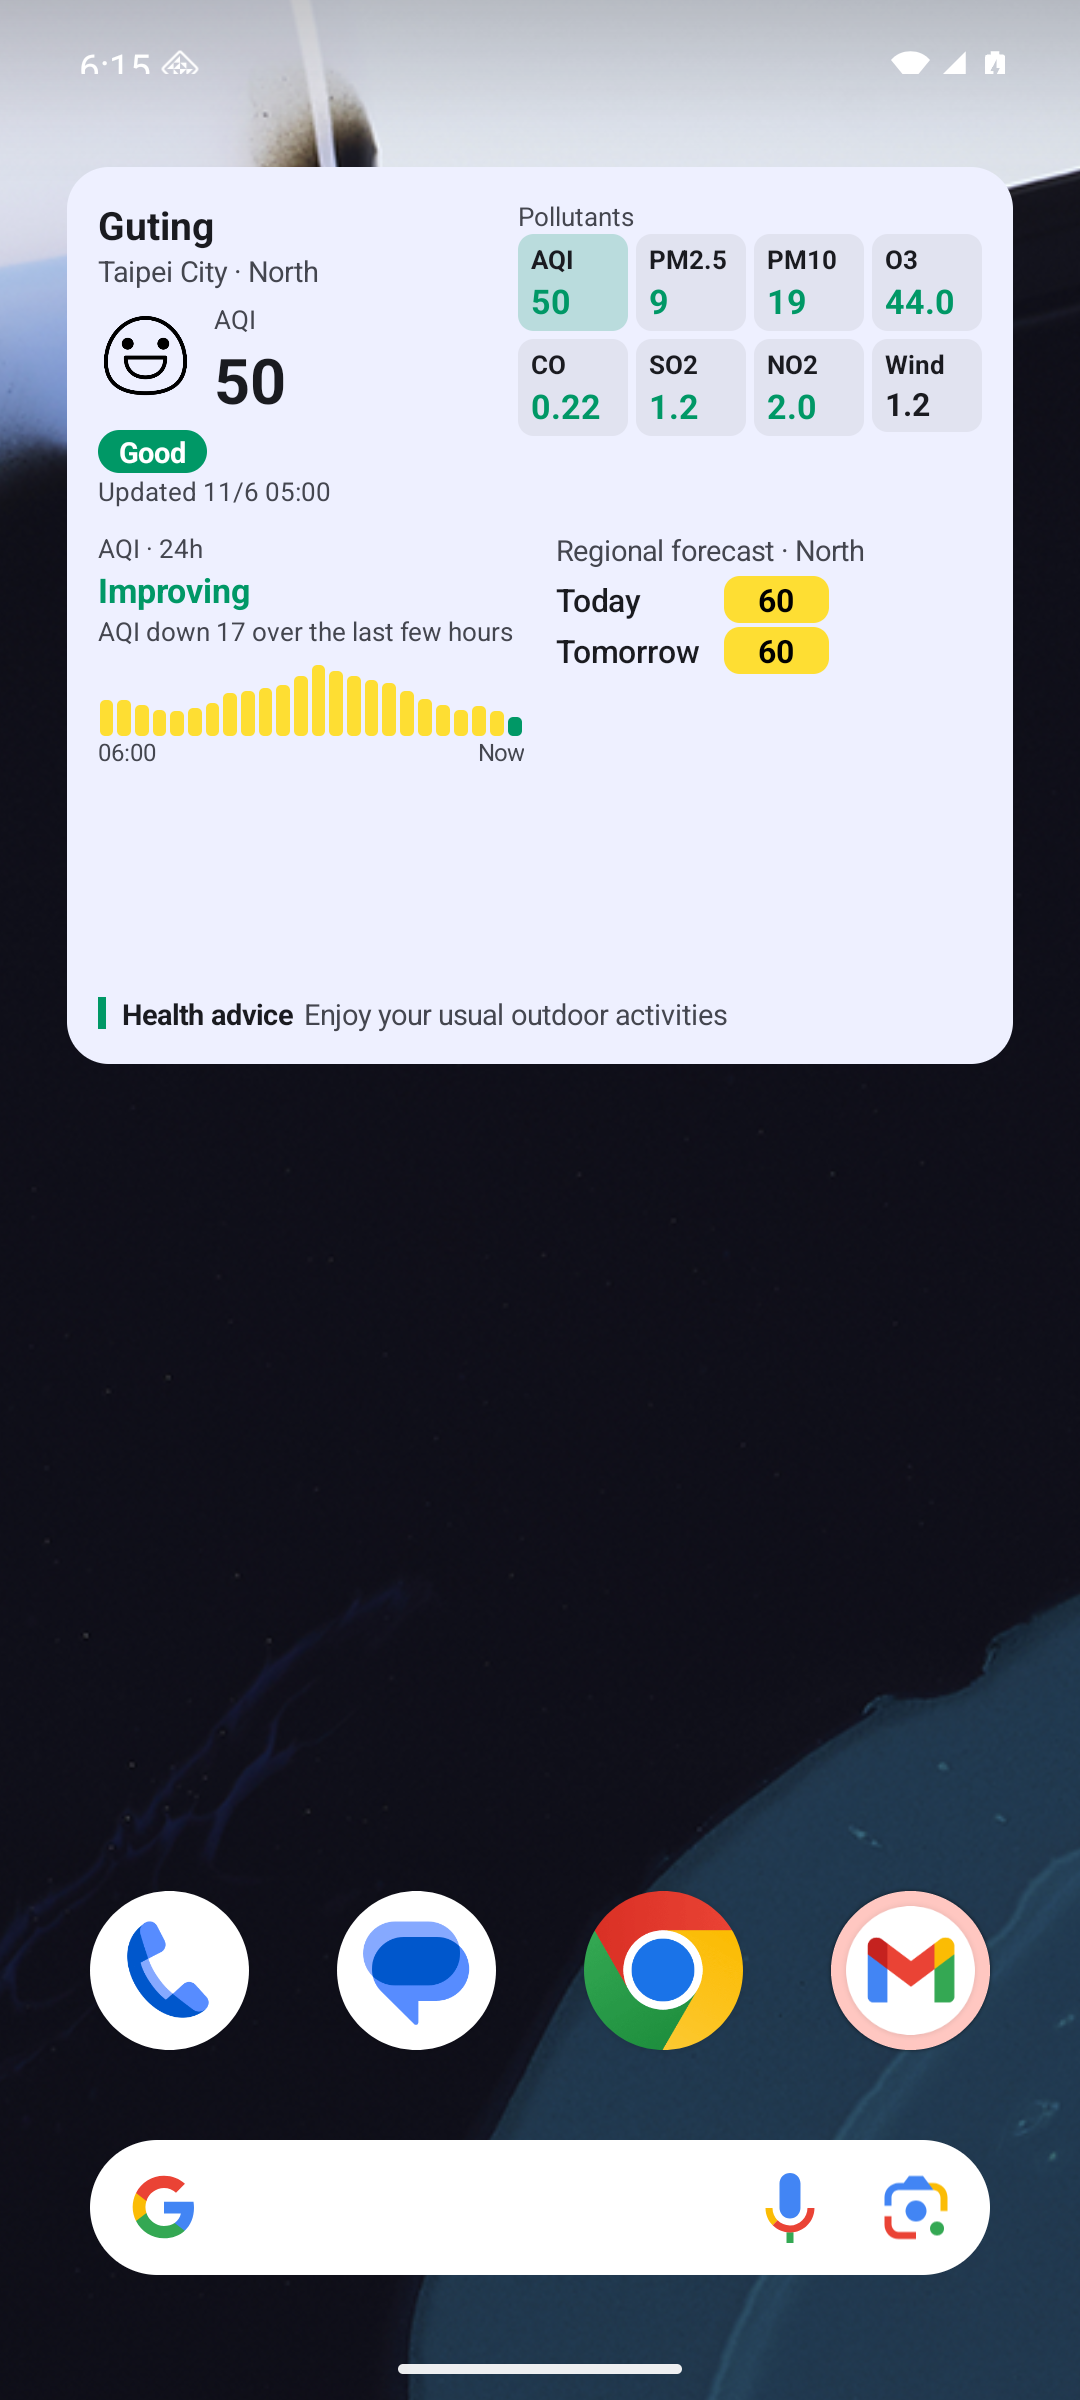
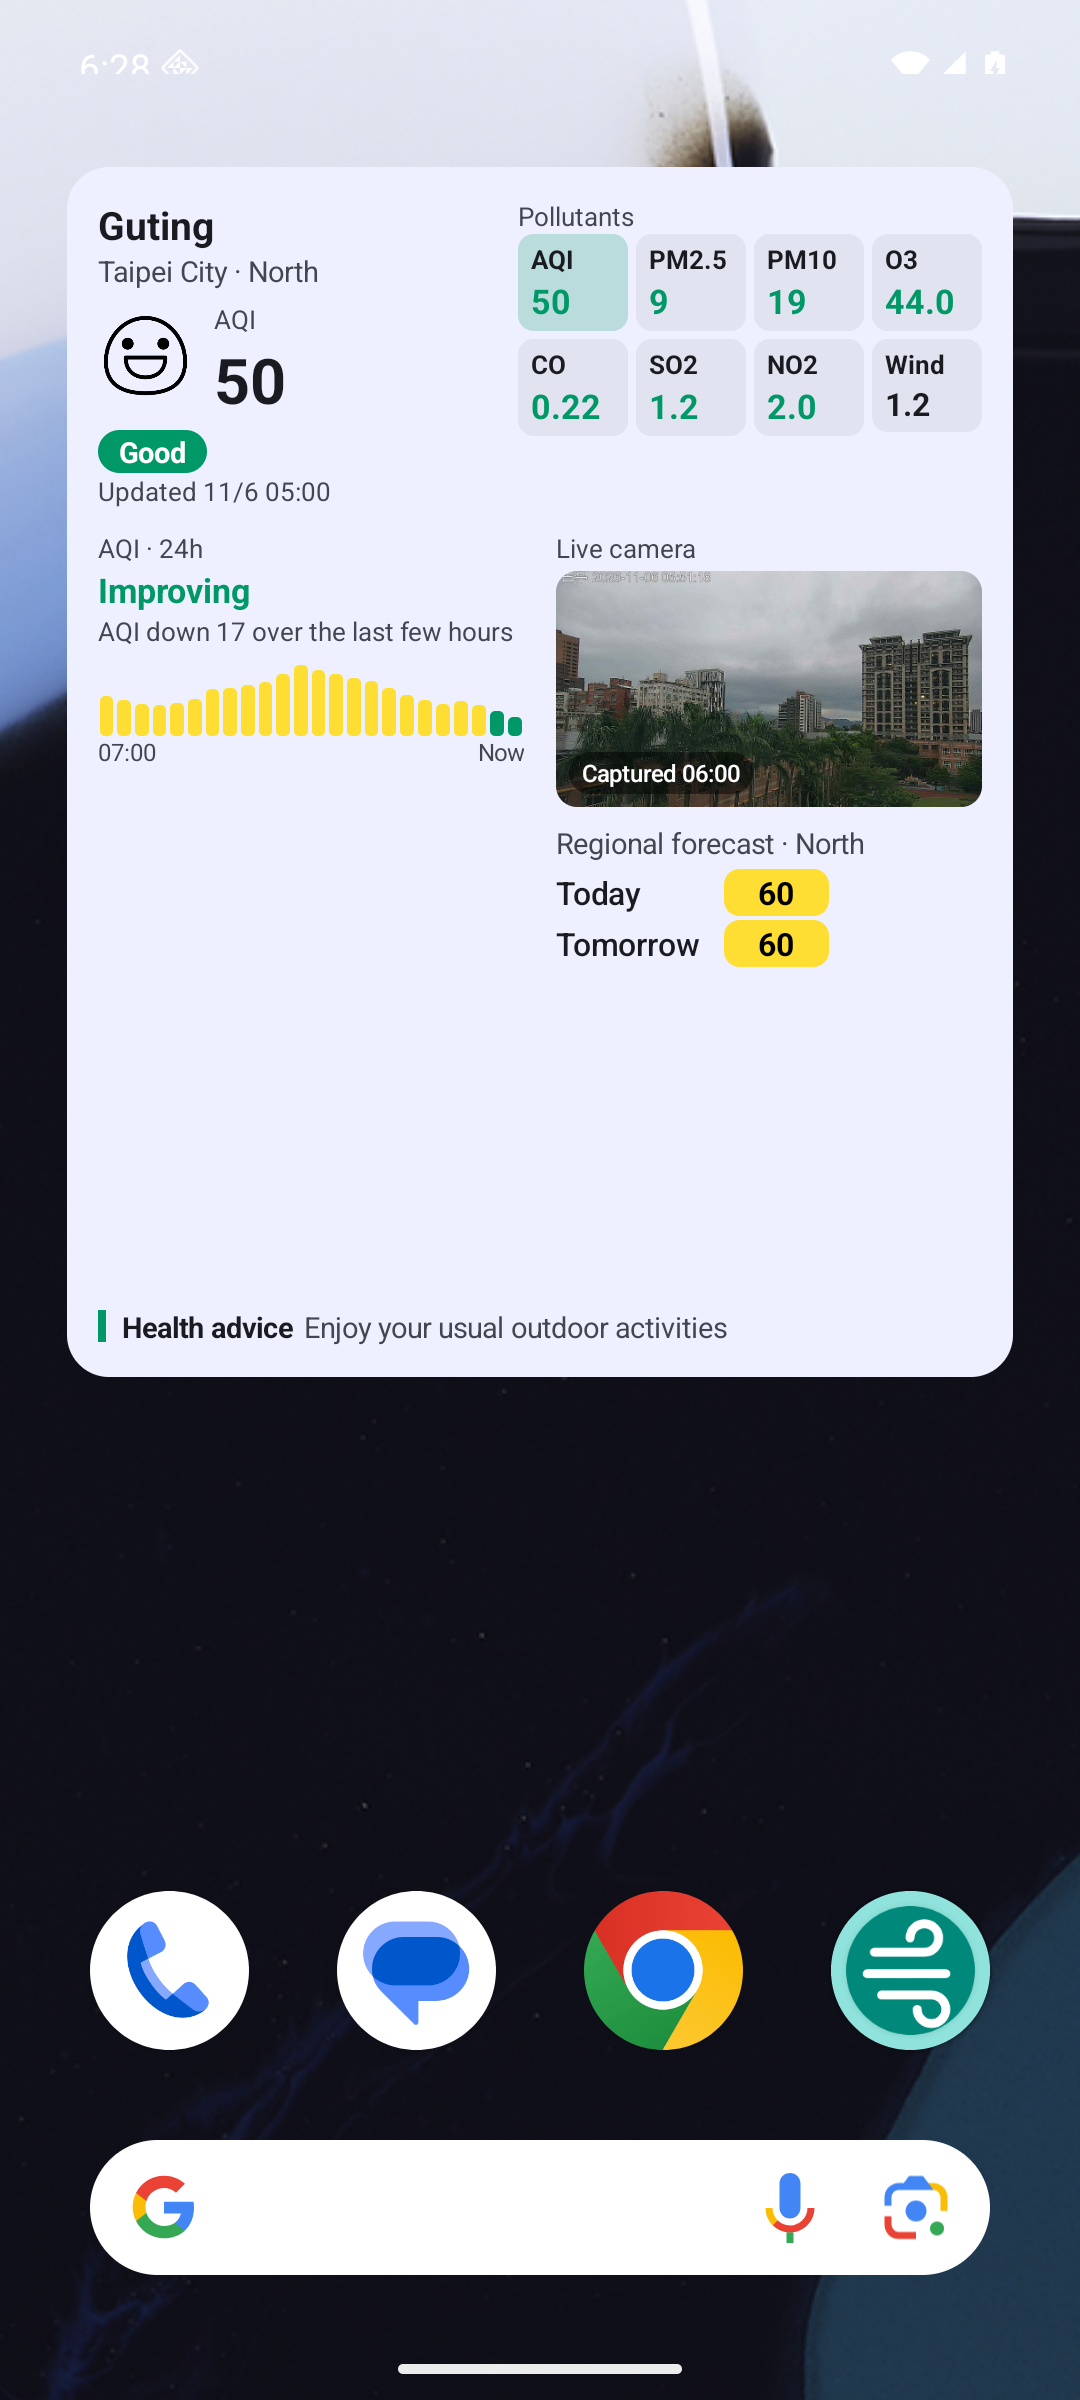
FOX-59: station cam on the station detail widget (FOX-92 landed)
The refresh matches the station's cam in FOX-92's manifest (kept an hour),
saves the match beside the widget's history, and saves the latest frame in
FOX-92's frame cache, which the station page shares. The widget draws a
small copy with its capture time, above the forecast; it is the section
dropped first after the advice when the widget is short. Station detail is
placed 4x4 again, where the cam fits.

diff --git a/android/app/src/main/kotlin/com/kfpun/twaqi/widget/StationDetailWidget.kt b/android/app/src/main/kotlin/com/kfpun/twaqi/widget/StationDetailWidget.kt
@@ -2,6 +2,7 @@ package com.kfpun.twaqi.widget
 
 import android.appwidget.AppWidgetManager
 import android.content.Context
+import android.graphics.Bitmap
 import androidx.compose.runtime.Composable
 import androidx.compose.runtime.LaunchedEffect
 import androidx.compose.runtime.getValue
@@ -14,6 +15,8 @@ import androidx.datastore.preferences.core.Preferences
 import androidx.glance.GlanceId
 import androidx.glance.GlanceModifier
 import androidx.glance.GlanceTheme
+import androidx.glance.Image
+import androidx.glance.ImageProvider
 import androidx.glance.LocalSize
 import androidx.glance.appwidget.GlanceAppWidget
 import androidx.glance.appwidget.GlanceAppWidgetReceiver
@@ -26,6 +29,7 @@ import androidx.glance.currentState
 import androidx.glance.layout.Alignment
 import androidx.glance.layout.Box
 import androidx.glance.layout.Column
+import androidx.glance.layout.ContentScale
 import androidx.glance.layout.Row
 import androidx.glance.layout.RowScope
 import androidx.glance.layout.Spacer
@@ -39,19 +43,22 @@ import androidx.glance.state.GlanceStateDefinition
 import androidx.glance.state.PreferencesGlanceStateDefinition
 import androidx.glance.text.FontWeight
 import com.kfpun.twaqi.R
+import com.kfpun.twaqi.data.cams.CamFrame
 import com.kfpun.twaqi.data.model.AirIndexType
 import com.kfpun.twaqi.data.model.AirStatus
 import com.kfpun.twaqi.data.model.Pollutant
 import com.kfpun.twaqi.ui.station.HistoryChart
 import com.kfpun.twaqi.ui.station.TrendDisplay
+import com.kfpun.twaqi.ui.station.cam.CamTime
 import java.time.Instant
+import java.time.OffsetDateTime
 
 /**
  * The station detail widget (iOS extra large, `StationDetailWidgetView`, FOX-72): one station in
  * detail, as much of the station page as fits. Header and every index with wind; the 24-hour trend
- * and the 空品區 forecast; one line of health advice. Where the widget is too short, the advice
- * goes first, then the forecast. Pro; locked without it. Nothing here is interactive but the tap,
- * which opens the station. (The station cam joins when the Android cam lands, FOX-92.)
+ * and the 空品區 forecast; the station cam's last frame (FOX-92); one line of health advice. Where
+ * the widget is too short, the advice goes first, then the cam, then the forecast. Pro; locked
+ * without it. Nothing here is interactive but the tap, which opens the station.
  */
 class StationDetailWidget : GlanceAppWidget() {
     override val sizeMode: SizeMode = SizeMode.Exact
@@ -126,8 +133,17 @@ private fun DetailContent(
     val forecast = snapshot.forecast(reading, text.chinese)
     val wide = widthDp >= WIDE_DP
     // The first layout that fits the height, as iOS's ViewThatFits: each drops one more section.
-    val showsAdvice = heightDp >= (if (wide) 300f else 420f)
     val shownForecast = forecast?.takeIf { heightDp >= (if (wide) 250f else 360f) }
+    // Wide, the cam sits above the forecast beside the trend, so together they need more height.
+    val camHeight = if (wide) (if (shownForecast != null) 360f else 330f) else 480f
+    val shownCam = snapshot.cam?.takeIf { heightDp >= camHeight }
+    val showsAdvice = if (shownCam !=
+        null
+    ) {
+        heightDp >= camHeight + ADVICE_DP
+    } else {
+        heightDp >= (if (wide) 300f else 420f)
+    }
     WidgetContainer(onClick = WidgetTaps.station(context, reading.stationId)) {
         Column(modifier = GlanceModifier.fillMaxSize()) {
             if (wide) {
@@ -142,16 +158,22 @@ private fun DetailContent(
                 Indices(reading, type, text)
             }
             Spacer(GlanceModifier.height(8.dp))
-            if (wide && shownForecast != null) {
+            if (wide && (shownForecast != null || shownCam != null)) {
                 Row(modifier = GlanceModifier.fillMaxWidth()) {
                     Box(modifier = GlanceModifier.defaultWeight()) { Trend(snapshot, type, text) }
                     Spacer(GlanceModifier.width(12.dp))
-                    Box(modifier = GlanceModifier.defaultWeight()) {
-                        ForecastSection(shownForecast, text, compact = true)
+                    Column(modifier = GlanceModifier.defaultWeight()) {
+                        shownCam?.let { Cam(it, text) }
+                        if (shownCam != null && shownForecast != null) Spacer(GlanceModifier.height(6.dp))
+                        shownForecast?.let { ForecastSection(it, text, compact = true) }
                     }
                 }
             } else {
                 Trend(snapshot, type, text)
+                shownCam?.let {
+                    Spacer(GlanceModifier.height(6.dp))
+                    Cam(it, text)
+                }
                 if (shownForecast != null) {
                     Spacer(GlanceModifier.height(6.dp))
                     ForecastSection(shownForecast, text, compact = false)
@@ -338,6 +360,44 @@ private fun RowScope.Bar(value: Double, chart: HistoryChart, type: AirIndexType)
     }
 }
 
+/** The cam's last frame, 16:9, with when it was captured on it (iOS `camSection`). */
+@Composable
+private fun Cam(frame: CamFrame<Bitmap>, text: WidgetText) {
+    val captured = frame.time?.let { runCatching { OffsetDateTime.parse(it).toInstant() }.getOrNull() }
+    Column(modifier = GlanceModifier.fillMaxWidth()) {
+        SecondaryLabel(text.string(R.string.details_live_cam), size = 10.sp)
+        Spacer(GlanceModifier.height(2.dp))
+        Box(
+            modifier = GlanceModifier.fillMaxWidth().height(CAM_HEIGHT_DP.dp).cornerRadius(8.dp),
+            contentAlignment = Alignment.BottomStart
+        ) {
+            Image(
+                provider = ImageProvider(frame.image),
+                contentDescription = null,
+                contentScale = ContentScale.Crop,
+                modifier = GlanceModifier.fillMaxSize().cornerRadius(8.dp)
+            )
+            if (captured != null) {
+                Box(modifier = GlanceModifier.padding(5.dp)) {
+                    Box(
+                        modifier = GlanceModifier
+                            .cornerRadius(8.dp)
+                            .background(rgb(0x000000, 0.45f))
+                            .padding(horizontal = 5.dp, vertical = 2.dp)
+                    ) {
+                        WidgetLabel(
+                            text.string(R.string.details_cam_captured, CamTime.clock(captured)),
+                            size = 9.sp,
+                            weight = FontWeight.Medium,
+                            color = rgb(0xFFFFFF)
+                        )
+                    }
+                }
+            }
+        }
+    }
+}
+
 /** The general-public line of the station page's health advice, for AQI. */
 @Composable
 private fun Advice(reading: Pollutant, text: WidgetText) {
@@ -354,6 +414,13 @@ private fun Advice(reading: Pollutant, text: WidgetText) {
 
 private const val WIDE_DP = 300f
 private const val BARS_HEIGHT = 30
+
+/** The cam frame's height, 16:9 at about the half-width it gets on a 4-column widget. */
+private const val CAM_HEIGHT_DP = 90
+
+/** The advice line and the gap above it, for the height check. */
+private const val ADVICE_DP = 22f
+
 private const val BARS_PER_GROUP = 3
 private val MAX_GROUPS = (HistoryChart.MAX_POINTS + BARS_PER_GROUP - 1) / BARS_PER_GROUP
 

diff --git a/android/app/src/main/kotlin/com/kfpun/twaqi/widget/WidgetData.kt b/android/app/src/main/kotlin/com/kfpun/twaqi/widget/WidgetData.kt
@@ -1,8 +1,13 @@
 package com.kfpun.twaqi.widget
 
 import android.content.Context
+import android.graphics.Bitmap
+import androidx.compose.ui.graphics.asAndroidBitmap
 import com.kfpun.twaqi.TwaqiApplication
 import com.kfpun.twaqi.data.AppContainer
+import com.kfpun.twaqi.data.cams.BitmapCamImageDecoder
+import com.kfpun.twaqi.data.cams.CamFrame
+import com.kfpun.twaqi.data.cams.StationCamMatcher
 import com.kfpun.twaqi.data.model.AqiForecast
 import com.kfpun.twaqi.data.model.AqiForecastMatcher
 import com.kfpun.twaqi.data.model.AreaForecast
@@ -27,6 +32,7 @@ import kotlinx.coroutines.withTimeoutOrNull
  * @property savedAt when each of [readings] was saved, for the offline line.
  * @property forecasts every area's forecast rows (large and station detail pick the station's area).
  * @property history the leading station's last 24 hours (station detail only), oldest first.
+ * @property cam the leading station's last saved cam frame, small (station detail only, FOX-92).
  */
 data class WidgetSnapshot(
     val config: WidgetConfig,
@@ -36,7 +42,8 @@ data class WidgetSnapshot(
     val savedAt: Map<Int, Instant>,
     val isPro: Boolean,
     val forecasts: List<AqiForecast> = emptyList(),
-    val history: List<HistoricalPollutant> = emptyList()
+    val history: List<HistoricalPollutant> = emptyList(),
+    val cam: CamFrame<Bitmap>? = null
 ) {
     val leading: Pollutant? get() = leadingId?.let(readings::get)
 
@@ -76,8 +83,17 @@ class WidgetDataSource(private val context: Context, private val container: AppC
                 container.widgetHistory.read(leadingId).orEmpty()
             } else {
                 emptyList()
-            }
+            },
+            cam = if (includeHistory && leadingId != null) savedCam(leadingId) else null
         )
+    }
+
+    /** The frame the station page or a refresh saved for [stationId]'s cam, decoded small for a widget. */
+    private suspend fun savedCam(stationId: Int): CamFrame<Bitmap>? {
+        val siteId = container.widgetHistory.readCam(stationId) ?: return null
+        return container.camFrames.savedFrame(siteId) { bytes ->
+            BitmapCamImageDecoder.thumbnail(bytes, CAM_PIXELS)?.asAndroidBitmap()
+        }
     }
 
     /**
@@ -106,12 +122,29 @@ class WidgetDataSource(private val context: Context, private val container: AppC
         val details = configs.filter { it.second }.map { it.first }
         if (details.isNotEmpty()) {
             val nearestId = if (details.any { it.needsNearest(favouriteIds) }) nearestStationId() else null
-            details.mapNotNull { it.leadingStationId(favouriteIds, nearestId) }.distinct().forEach { stationId ->
+            val stationIds = details.mapNotNull { it.leadingStationId(favouriteIds, nearestId) }.distinct()
+            stationIds.forEach { stationId ->
                 val history = container.airQuality.history(stationId)
                 if (history is DataResult.Fresh) container.widgetHistory.save(stationId, history.value.readings)
             }
+            refreshCams(stationIds)
         }
         return hasNewData
+    }
+
+    /**
+     * Station detail's cam (FOX-92): the manifest (kept an hour) names each station's cam, and its
+     * latest frame is saved over the last one, where the station page finds it too. A manifest that
+     * didn't load changes nothing; a failed frame keeps the saved one (iOS `StationDetailLoader`).
+     */
+    private suspend fun refreshCams(stationIds: List<Int>) {
+        val cams = runCatching { container.camManifest.cams() }.getOrDefault(emptyList())
+        if (cams.isEmpty()) return
+        container.airQuality.savedPollutants(stationIds).map { it.value }.forEach { reading ->
+            val cam = StationCamMatcher.match(reading.nameLocal, reading.lat, reading.lon, cams)
+            container.widgetHistory.saveCam(reading.stationId, cam?.siteId)
+            if (cam != null) container.camFrames.fetch(cam)
+        }
     }
 
     private suspend fun nearestStationId(): Int? {
@@ -128,6 +161,9 @@ class WidgetDataSource(private val context: Context, private val container: AppC
 
     companion object {
         private const val PRO_READ_TIMEOUT_MS = 2_000L
+
+        /** Longest side of the cam frame a widget draws, in pixels: a 160dp-wide thumbnail. */
+        private const val CAM_PIXELS = 480
 
         fun containerOf(context: Context): AppContainer = (context.applicationContext as TwaqiApplication).container
     }

diff --git a/android/app/src/main/kotlin/com/kfpun/twaqi/widget/WidgetHistoryCache.kt b/android/app/src/main/kotlin/com/kfpun/twaqi/widget/WidgetHistoryCache.kt
@@ -13,7 +13,8 @@ import kotlinx.serialization.json.put
 
 /**
  * The station detail widget's last good 24 hours per station (iOS `WidgetStationDetailCache`),
- * so it still draws its trend offline. A failed or empty fetch keeps the saved copy; a week-old
+ * so it still draws its trend offline, and the cam matched to it (the frame itself is FOX-92's
+ * `StationCamFrameCache`, shared with the station page). A failed or empty fetch keeps the saved copy; a week-old
  * copy is ignored and purged like every offline cache, since it lives under the cache root
  * ([CacheStore], `OfflineCacheRetention`).
  */
@@ -29,6 +30,22 @@ class WidgetHistoryCache(private val store: CacheStore) {
     fun save(stationId: Int, readings: List<HistoricalPollutant>) {
         if (readings.isEmpty()) return
         store.write(fileName(stationId), buildJsonArray { readings.forEach { add(encode(it)) } }.toString())
+    }
+
+    /**
+     * The MOENV image site id of [stationId]'s cam, as the last manifest that loaded matched it;
+     * null when it has none or no manifest has loaded yet (iOS `WidgetStationDetail.cam`).
+     */
+    fun readCam(stationId: Int): String? {
+        val text = store.read(camFileName(stationId))?.value ?: return null
+        val json = runCatching { kotlinx.serialization.json.Json.parseToJsonElement(text) as? JsonObject }
+            .getOrNull() ?: return null
+        return (json["siteId"] as? JsonPrimitive)?.contentOrNull?.takeIf { it.isNotEmpty() }
+    }
+
+    /** Saves the cam a loaded manifest matched to [stationId]; null saves that it has none. */
+    fun saveCam(stationId: Int, siteId: String?) {
+        store.write(camFileName(stationId), buildJsonObject { siteId?.let { put("siteId", it) } }.toString())
     }
 
     private fun encode(reading: HistoricalPollutant): JsonObject = buildJsonObject {
@@ -63,5 +80,7 @@ class WidgetHistoryCache(private val store: CacheStore) {
 
     companion object {
         fun fileName(stationId: Int) = "widget-history-$stationId.json"
+
+        fun camFileName(stationId: Int) = "widget-cam-$stationId.json"
     }
 }

diff --git a/android/app/src/main/kotlin/com/kfpun/twaqi/data/cams/StationCamFrameCache.kt b/android/app/src/main/kotlin/com/kfpun/twaqi/data/cams/StationCamFrameCache.kt
@@ -51,7 +51,14 @@ class StationCamFrameCache<T>(
     private val io: CoroutineDispatcher = Dispatchers.IO
 ) : CamFrameSource<T> {
 
-    override suspend fun savedFrame(siteId: String): CamFrame<T>? = withContext(io) { readFrame(siteId) }
+    override suspend fun savedFrame(siteId: String): CamFrame<T>? = withContext(io) { readFrame(siteId, decoder::full) }
+
+    /**
+     * The saved frame decoded by [decode] instead of the screen's decoder: the station detail
+     * widget (FOX-59) draws a small `Bitmap` from the frame the page or the widget refresh saved.
+     */
+    suspend fun <R> savedFrame(siteId: String, decode: (ByteArray) -> R?): CamFrame<R>? =
+        withContext(io) { readFrame(siteId, decode) }
 
     override suspend fun fetch(cam: StationCam): CamFrame<T>? {
         val url = endpoints.latest(cam) ?: return null
@@ -67,7 +74,7 @@ class StationCamFrameCache<T>(
 
     fun metaFile(siteId: String): File = File(directory, "$siteId.json")
 
-    private fun readFrame(siteId: String): CamFrame<T>? {
+    private fun <R> readFrame(siteId: String, decode: (ByteArray) -> R?): CamFrame<R>? {
         val file = imageFile(siteId)
         if (OfflineCacheRetention.isExpired(OfflineCacheRetention.modificationDate(file), now())) return null
         val bytes = try {
@@ -75,7 +82,7 @@ class StationCamFrameCache<T>(
         } catch (e: IOException) {
             return null
         }
-        val image = decoder.full(bytes) ?: return null
+        val image = decode(bytes) ?: return null
         val time = runCatching {
             (Json.parseToJsonElement(metaFile(siteId).readText()).jsonObject["time"] as? JsonPrimitive)
                 ?.takeIf { it.isString }?.content

diff --git a/android/app/src/test/kotlin/com/kfpun/twaqi/widget/WidgetHistoryCacheTest.kt b/android/app/src/test/kotlin/com/kfpun/twaqi/widget/WidgetHistoryCacheTest.kt
@@ -38,4 +38,23 @@ class WidgetHistoryCacheTest {
         now = now.plus(Duration.ofDays(8))
         assertNull(cache.read(12))
     }
+
+    @Test
+    fun theMatchedCamIsKeptAndANoMatchClearsIt() {
+        assertNull(cache.readCam(12))
+        cache.saveCam(12, "001")
+        assertEquals("001", cache.readCam(12))
+        assertNull(cache.readCam(13))
+        // A loaded manifest without this station's cam drops it (iOS `merged`).
+        cache.saveCam(12, null)
+        assertNull(cache.readCam(12))
+    }
+
+    @Test
+    fun aWeekOldCamMatchIsIgnoredAndLivesUnderTheCacheRoot() {
+        cache.saveCam(12, "001")
+        assertEquals(root, CacheStore(root).file(WidgetHistoryCache.camFileName(12)).parentFile)
+        now = now.plus(Duration.ofDays(8))
+        assertNull(cache.readCam(12))
+    }
 }
